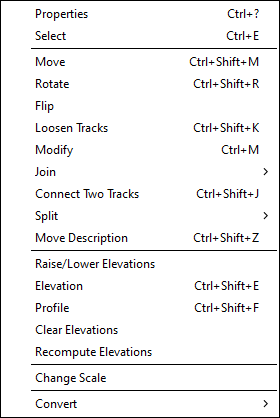
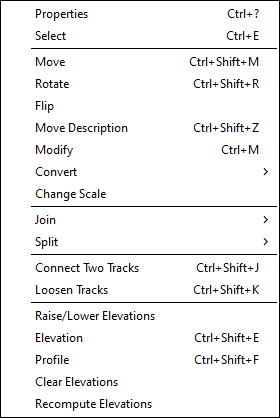
Update Change menu

diff --git a/app/bin/misc.c b/app/bin/misc.c
@@ -2643,6 +2643,10 @@ static void CreateMenus(void) {
 	InitCmdModify(changeM);
 	InitCmdCornu(changeM);
 
+	MiscMenuItemCreate(changeM, NULL, "cmdRescale", _("Change Scale"), 0,
+		(void*)(wMenuCallBack_p)DoRescale, IC_SELECTED, I2VP(0));
+
+
 	wMenuSeparatorCreate(changeM);
 
 	InitCmdJoin(changeM);
@@ -2671,11 +2675,6 @@ static void CreateMenus(void) {
 	MiscMenuItemCreate(changeM, NULL, "cmdElevation", _("Recompute Elevations"),
 			0, (void*) (wMenuCallBack_p) RecomputeElevations, 0, I2VP(0));
 	ParamRegister(&addElevPG);
-
-	wMenuSeparatorCreate(changeM);
-
-	MiscMenuItemCreate(changeM, NULL, "cmdRescale", _("Change Scale"), 0,
-			(void*) (wMenuCallBack_p) DoRescale, IC_SELECTED, I2VP(0));
 
 	/*
 	 * DRAW MENU
